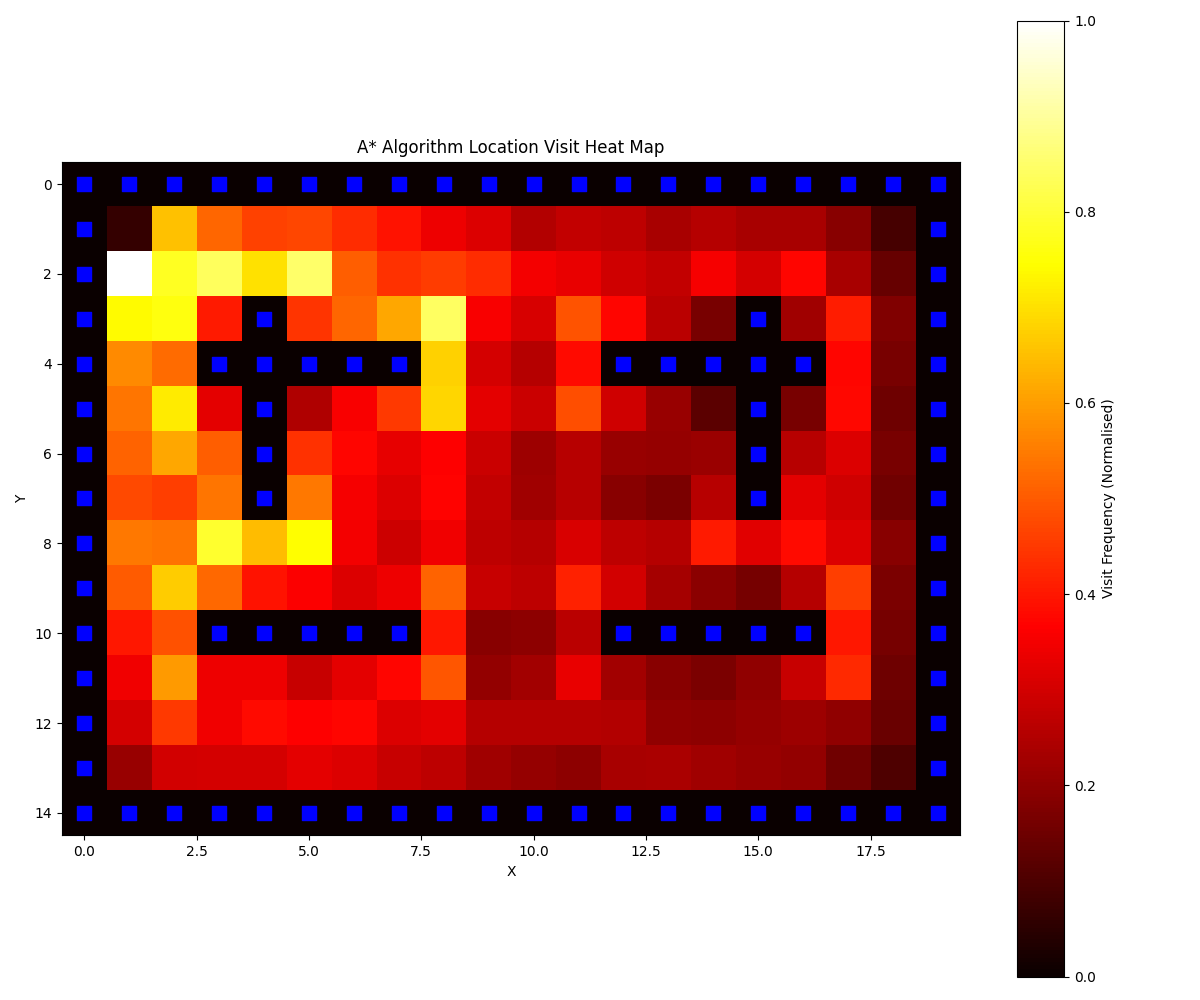
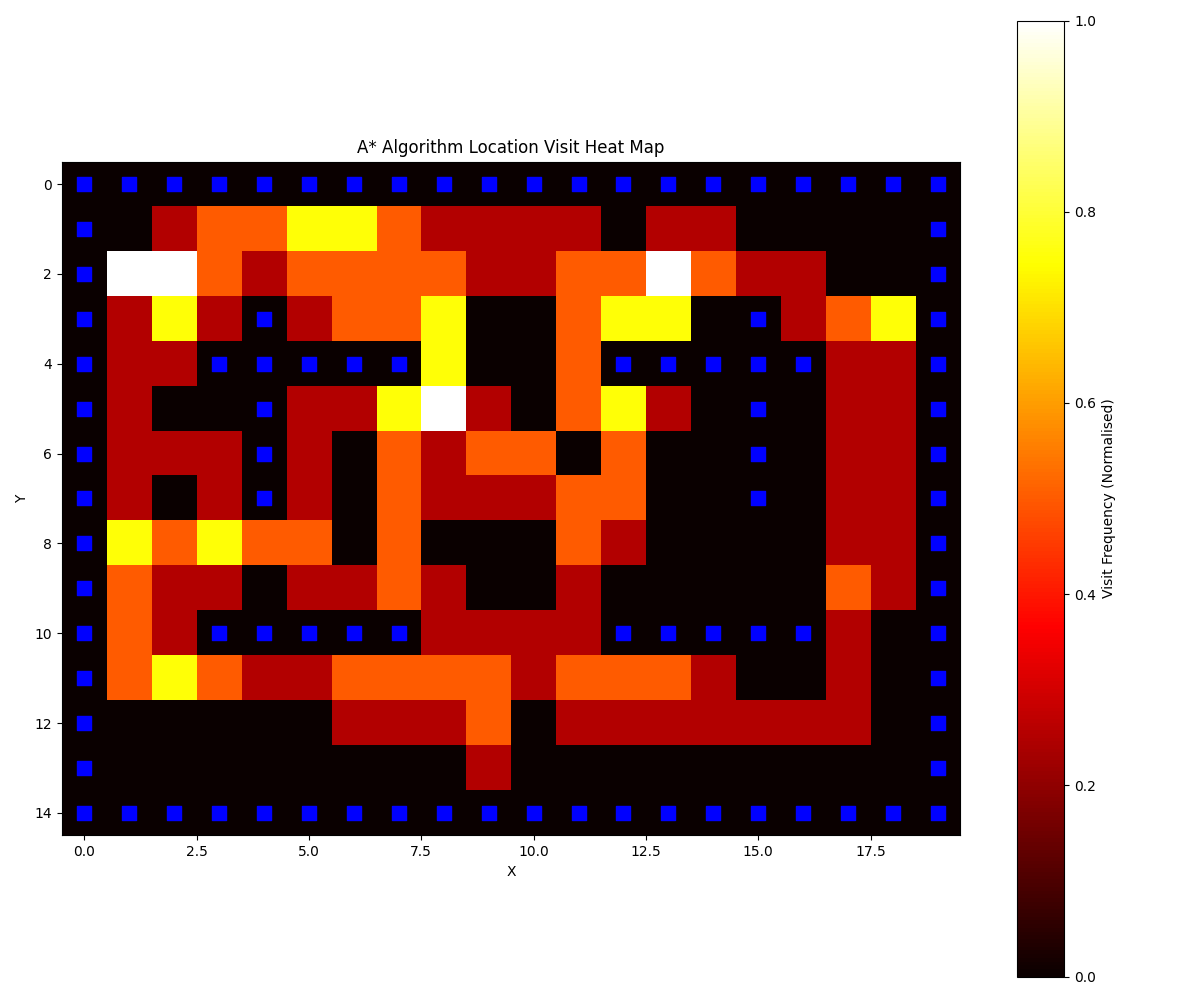
Update

diff --git a/demo/run_benchmark.py b/demo/run_benchmark.py
@@ -1,9 +1,9 @@
 from demo import run_demo
 
 if __name__ == "__main__":
-    num_trials = 100
-    num_coins = 50     
-    max_steps = 250    
+    num_trials = 1
+    num_coins = 25 
+    max_steps = 150    
     
     print("Pac-Man Algoritma Performans Karşılaştırması")
     print(f"Her kombinasyon için {num_trials} test, {num_coins} coin, en fazla {max_steps} adım")

diff --git a/main.py b/main.py
@@ -10,7 +10,7 @@ def main():
     SCREEN_WIDTH = 1200
     SCREEN_HEIGHT = 900
     CELL_SIZE = 40
-    FPS = 30
+    FPS = 15
     
     # Ekranı oluştur
     screen = pygame.display.set_mode((SCREEN_WIDTH, SCREEN_HEIGHT))

diff --git a/README.md b/README.md
@@ -1,3 +1,212 @@
-# YAP 441 PROJE
-## Eren Demirtaş
-## 201401020
+# Pac-Man with Multiple AI Search Algorithms
+
+Bu proje, farklı yapay zeka algoritmalarını karşılaştırmak için geliştirilmiş gelişmiş bir Pac-Man oyunudur. Pac-Man ve hayaletler için çeşitli arama algoritmaları kullanarak, algoritmaların performansını görsel olarak analiz edebilirsiniz.
+
+## Özellikler
+
+### Desteklenen AI Algoritmaları
+- **A\* (A-Star)** - Optimal yol bulma algoritması
+- **BFS (Breadth-First Search)** - Genişlik öncelikli arama
+- **DFS (Depth-First Search)** - Sınırlı derinlikli arama  
+- **Genetic Algorithm** - Evrimsel optimizasyon
+- **Decision Tree** - Makine öğrenmesi tabanlı karar verme
+- **Kullanıcı Kontrolü** - Manuel oyun modu
+
+### Analiz ve Görselleştirme
+- Gerçek zamanlı performans karşılaştırması
+- Isı haritası görselleştirmesi (algoritmaların hareket kalıpları)
+- Yol takibi animasyonları
+- İstatistiksel analiz raporları
+- Karar ağacı görselleştirmesi
+- Algoritma hız karşılaştırması
+
+### Oyun Modu Seçenekleri
+- Pac-Man ve hayaletler için bağımsız algoritma seçimi
+- Kullanıcı kontrollü Pac-Man modu
+- Otomatik simülasyon ve benchmark testleri
+- Çoklu coin toplama hedefleri
+
+## Kurulum
+
+### Gereksinimler
+```bash
+pip install -r requirements.txt
+```
+
+**Gerekli Kütüphaneler:**
+- `pygame >= 2.0.0` - Oyun motoru
+- `numpy >= 1.20.0` - Sayısal hesaplamalar
+- `scikit-learn >= 0.24.0` - Makine öğrenmesi
+- `matplotlib >= 3.4.0` - Grafik çizimi
+- `graphviz >= 0.16` - Karar ağacı görselleştirme
+
+## Kullanım
+
+### Temel Oyun
+```bash
+python main.py
+```
+
+1. **Algoritma Seçimi**: Menüden Pac-Man ve hayaletler için algoritma seçin
+2. **Oyunu Başlatın**: "Start" butonuna tıklayın
+3. **Kullanıcı Kontrolü**: "Kullanıcı" seçeneği ile manuel oynayın (ok tuşları)
+
+### Performans Testi
+```bash
+# Hızlı test
+python demo/run_benchmark.py
+
+# Özelleştirilmiş test
+python -c "from demo.demo import run_demo; run_demo(num_trials=5, num_coins=20, max_steps=300)"
+```
+
+### Karar Ağacı Görselleştirme
+```bash
+python demo/visualize_tree.py
+```
+
+## Proje Yapısı
+
+```
+YAP-441/
+├── main.py                    # Ana oyun giriş noktası
+├── requirements.txt           # Gerekli kütüphaneler
+├── README.md                 # Bu dosya
+│
+├── game/                     # Oyun motoru
+│   ├── __init__.py
+│   ├── game.py              # Ana oyun mantığı ve döngüsü
+│   └── character.py         # Karakter, coin ve buton sınıfları
+│
+├── algorithms/              # AI Algoritmaları
+│   ├── __init__.py
+│   ├── algorithm.py         # Temel algoritma sınıfı
+│   ├── astar.py            # A* algoritması
+│   ├── bfs.py              # BFS algoritması
+│   ├── dfs.py              # DFS algoritması
+│   ├── genetic_algorithm.py # Genetik algoritma
+│   └── decision_tree.py    # Karar ağacı algoritması
+│
+├── demo/                   # Analiz ve test araçları
+│   ├── __init__.py
+│   ├── demo.py            # Simülasyon ve benchmark
+│   ├── run_benchmark.py   # Hızlı benchmark testi
+│   └── visualize_tree.py  # Karar ağacı görselleştirme
+│
+├── dt-model/              # Karar ağacı modeli (otomatik oluşur)
+│   ├── pacman_decision_tree.pkl
+│   ├── pacman_decision_tree.dot
+│   └── pacman_training_data.csv
+│
+└── results/               # Analiz sonuçları (otomatik oluşur)
+    ├── sim_results_*.png  # Performans grafikleri
+    ├── decision_tree.png  # Karar ağacı görseli
+    └── *.png              # Diğer görselleştirmeler
+```
+
+## Algoritma Detayları
+
+### A* (A-Star)
+- **Kullanım**: Optimal yol bulma
+- **Avantaj**: Garantili en kısa yol
+- **Dezavantaj**: Hesaplama yoğun
+
+### BFS (Breadth-First Search)
+- **Kullanım**: Tüm seçenekleri eşit araştırma
+- **Avantaj**: Optimal çözüm garanti
+- **Dezavantaj**: Bellek yoğun
+
+### DFS (Depth-First Search)
+- **Kullanım**: Hızlı karar verme
+- **Avantaj**: Düşük bellek kullanımı
+- **Dezavantaj**: Optimal olmayabilir
+
+### Genetik Algoritma
+- **Kullanım**: Karmaşık optimizasyon
+- **Avantaj**: Global optimuma yaklaşır
+- **Dezavantaj**: Stokastik sonuçlar
+
+### Karar Ağacı
+- **Kullanım**: Öğrenme tabanlı kararlar
+- **Avantaj**: Açıklanabilir AI
+- **Dezavantaj**: Eğitim verisi gerekli
+
+## Analiz Özellikleri
+
+### Performans Metrikleri
+- **Coin Toplama Oranı**: Her algoritmanın ortalama coin toplama sayısı
+- **Hayatta Kalma Süresi**: Hayaletlerden ne kadar kaçabildiği
+- **Kazanma Oranı**: Tüm coinleri toplama yüzdesi
+- **Hesaplama Hızı**: Adım başına ortalama işlem süresi
+
+### Görselleştirmeler
+1. **Çubuk Grafikler**: Algoritma performans karşılaştırması
+2. **Radar Grafikleri**: Çok boyutlu performans analizi
+3. **Isı Haritaları**: Hareket kalıpları analizi
+4. **Yol Takibi**: Algoritmaların seçtiği rotalar
+5. **Karar Ağacı**: ML modelinin görsel temsili
+
+## ⚙ Yapılandırma
+
+### Oyun Parametreleri
+```python
+# main.py içinde
+SCREEN_WIDTH = 1200    # Ekran genişliği
+SCREEN_HEIGHT = 900    # Ekran yüksekliği
+CELL_SIZE = 40         # Hücre boyutu
+FPS = 15              # Oyun hızı
+```
+
+### Benchmark Parametreleri
+```python
+# demo/run_benchmark.py içinde
+num_trials = 1        # Test sayısı
+num_coins = 25        # Coin sayısı
+max_steps = 150       # Maksimum adım
+```
+
+### Algoritma Parametreleri
+```python
+# algorithms/genetic_algorithm.py
+population_size = 50      # Popülasyon boyutu
+chromosome_length = 20    # Kromozom uzunluğu
+mutation_rate = 0.1       # Mutasyon oranı
+generations = 10          # Evrim nesil sayısı
+
+# algorithms/dfs.py
+max_depth = 10           # Maksimum derinlik
+
+# algorithms/decision_tree.py
+max_depth = 5            # Ağaç derinliği
+```
+
+## 🎯 Kullanım Senaryoları
+
+### 1. Eğitim Amaçlı
+- AI algoritmaları öğretmek için
+- Algoritma karşılaştırması yapmak için
+- Görsel öğrenme materyali olarak
+
+### 2. Araştırma Amaçlı
+- Yeni algoritma geliştirmek için
+- Performance benchmarking için
+- AI davranış analizi için
+
+### 3. Eğlence Amaçlı
+- İnteraktif oyun oynamak için
+- Farklı AI stratejilerini test etmek için
+
+
+
+## 📈 Sonuçlar ve Analiz
+
+Benchmark testleri şu klasörlerde saklanır:
+- **Grafikler**: `results/sim_results_*.png`
+- **Modeller**: `dt-model/`
+- **CSV Verileri**: `dt-model/pacman_training_data.csv`
+
+
+
+---
+
+⭐ **Bu projeyi beğendiyseniz yıldız vermeyi unutmayın!**
